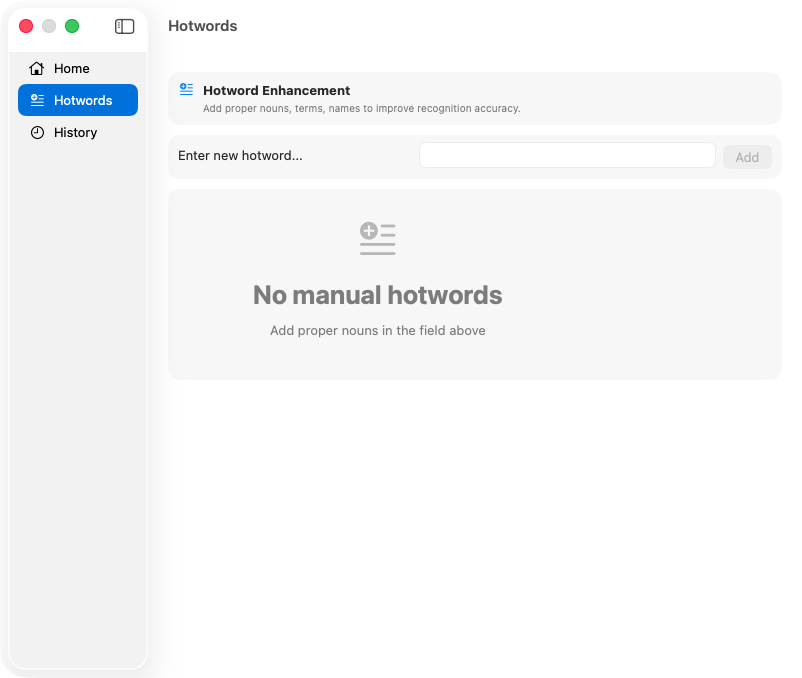
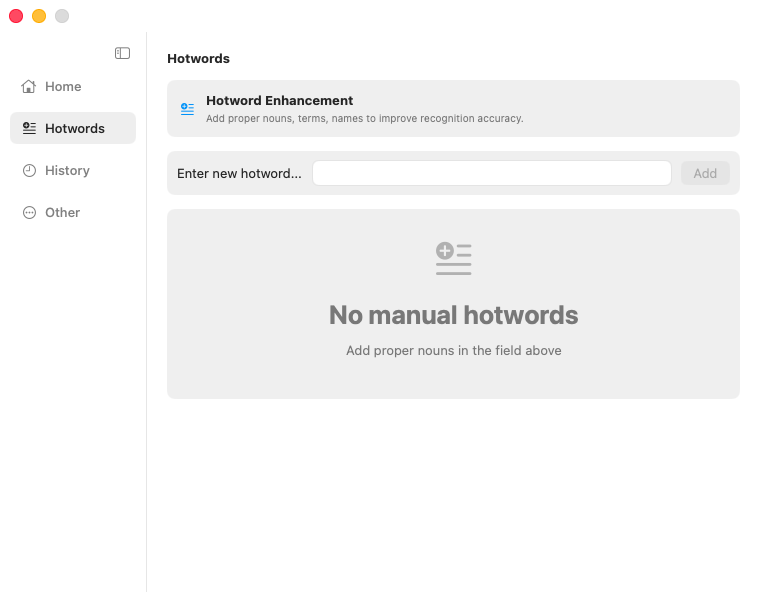
fix
fix

diff --git a/README_ja.md b/README_ja.md
@@ -9,22 +9,22 @@
 
 # VibingSpeech
 
-VibingSpeech は、Apple Silicon Mac 向けのネイティブ macOS 音声入力ユーティリティです。メニューバー常駐アプリとして動作し、グローバルホットキーで録音を開始し、Qwen3-ASR によってローカルで音声をテキストに変換します。オプションでテキストを整形し、システムペーストボードを介して最前面のアプリに結果を貼り付けます。
+VibingSpeech は、Apple Silicon Mac 向けのネイティブ macOS 音声入力ユーティリティです。メニューバー常駐アプリとして動作し、グローバルホットキーで録音を開始し、Qwen3-ASR を使用してローカルで音声を文字起こしし、必要に応じてテキストを整形したうえで、システムのペーストボードを通じて最前面のアプリに結果を貼り付けます。
 
 ## 目次
 
-- [プレビュー](#プレビュー)
-- [機能](#機能)
-- [技術スタック](#技術スタック)
-- [動作環境](#動作環境)
-- [ビルドと実行](#ビルドと実行)
-- [使い方](#使い方)
-- [テスト](#テスト)
-- [アーカイブ](#アーカイブ)
-- [プロジェクト構成](#プロジェクト構成)
-- [権限とプライバシー](#権限とプライバシー)
-- [トラブルシューティング](#トラブルシューティング)
-- [ライセンス](#ライセンス)
+- [プレビュー](#preview)
+- [機能](#features)
+- [技術スタック](#tech-stack)
+- [要件](#requirements)
+- [ビルドと実行](#build-and-run)
+- [使い方](#usage)
+- [テスト](#testing)
+- [アーカイブ](#archive)
+- [プロジェクト構成](#project-structure)
+- [権限とプライバシー](#permissions-and-privacy)
+- [トラブルシューティング](#troubleshooting)
+- [ライセンス](#license)
 
 ## プレビュー
 
@@ -34,38 +34,41 @@ VibingSpeech は、Apple Silicon Mac 向けのネイティブ macOS 音声入力
 
 <img src="githubreadme/ui-history.png" alt="VibingSpeech 履歴画面" width="480">
 
+<img src="githubreadme/ui-other.png" alt="VibingSpeech その他の設定画面" width="480">
+
 ## 機能
 
 - 短押しトグルモードと長押しホールドモードに対応したグローバル録音ホットキー。
-- リアルタイムの音声レベルフィードバックと文字起こし状態を表示するフローティング録音オーバーレイ。
-- Qwen3-ASR 0.6B および 1.7B MLX バリアントに対応したローカル ASR モデル選択。
-- タイポ修正、箇条書き、またはカスタムプロンプトに対応したオプションのローカルテキスト整形プリセット。
-- 名前、専門用語、固有名詞向けのローカルホットワードリスト。
-- 保持期間設定、検索、コピー、削除、全消去アクションを備えたローカル文字起こし履歴。
-- クリップボード復元機能付きで、アクティブなアプリへ安全にテキストを挿入するペーストボード対応機能。
+- リアルタイムの音量フィードバックと文字起こし状態を表示するフローティング録音オーバーレイ。
+- Qwen3-ASR 0.6B、1.7B 4ビット、1.7B 8ビットの MLX バリアントを対象としたローカル ASR モデルの選択。
+- 誤字修正、箇条書き整形、またはカスタムプロンプトに対応したオプションのローカルテキスト処理（LLM）。
+- 氏名、専門用語、固有名詞向けのローカルホットワードリスト。
+- 保持設定、検索、コピー、削除、全消去、元の ASR テキストのコピー操作に対応したローカル文字起こし履歴。
+- アプリ全体の外観モード、ログイン時起動、アイドル時のモデル自動アンロード設定。
+- クリップボードを復元しながら、アクティブなアプリにテキストを安全に挿入するペーストボード対応の挿入機能。
 - Dock アイコンなしのメニューバーライフサイクル。
-- 起動時の Apple Silicon チェック機能。
+- 起動時の Apple Silicon ガード。
 
 ## 技術スタック
 
-- macOS アプリ、メニューバーアイテム、録音オーバーレイに SwiftUI および AppKit を使用。
-- マイク入力と音声変換に AVFoundation を使用。
-- グローバルホットキーおよびペースト操作のシミュレーションに Carbon と Core Graphics イベントタップを使用。
-- Qwen3-ASR と音声サポートに `speech-swift` `0.0.15` を使用。
-- ローカル Qwen3 テキスト処理に `mlx-swift-lm` `3.31.3` と `mlx-swift` `0.31.3` を使用。
-- ローカルの履歴およびホットワード永続化に Application Support 内の JSON ファイルを使用。
+- macOS アプリ、メニューバーアイテム、録音オーバーレイ向けの SwiftUI および AppKit。
+- マイク入力と音声変換向けの AVFoundation。
+- グローバルホットキーと擬似ペースト操作向けの Carbon および Core Graphics イベントタップ。
+- Qwen3-ASR および音声サポート向けの `speech-swift` `0.0.15`。
+- ローカル Qwen3 テキスト処理向けの `mlx-swift` `0.31.3` を含む `mlx-swift-lm` `3.31.3`。
+- ローカルの履歴およびホットワードの永続化向けの Application Support 内 JSON ファイル。
 
-## 動作環境
+## 要件
 
 - Apple Silicon Mac。
 - macOS 26.0 以降。
 - Xcode 26.5 以降。
 - マイクの権限。
-- グローバルホットキーおよびアプリ間ペースト操作のためのアクセシビリティ権限。
+- グローバルホットキーおよびアプリをまたいだ貼り付けのためのアクセシビリティ権限。
 
 ## ビルドと実行
 
-リポジトリルートからプロジェクトスクリプトを使用します：
+リポジトリのルートからプロジェクトスクリプトを使用してください：
 
 ```sh
 ./script/build_and_run.sh --verify
@@ -82,17 +85,19 @@ VibingSpeech は、Apple Silicon Mac 向けのネイティブ macOS 音声入力
 ./script/build_and_run.sh --debug
 ```
 
-Xcode プロジェクトが主要なビルドパスです。このアプリでは SwiftPM のみを使用したリリースビルドは意図的に使用していません。
+Xcode プロジェクトが主要なビルドパスです。このアプリでは SwiftPM のみによるリリースビルドは意図的に使用していません。
 
 ## 使い方
 
 1. VibingSpeech を起動します。
-2. macOS がプロンプトを表示したら、マイクへのアクセスを許可します。
+2. macOS からプロンプトが表示されたら、マイクのアクセスを許可します。
 3. システム設定 > プライバシーとセキュリティ > アクセシビリティ で VibingSpeech を有効にします。
-4. ホーム画面から録音ホットキー、言語モード、ASR モデル、マイク、履歴保持期間を選択します。
-5. 任意のアプリで録音ホットキーを押します。キーを離すか再度押すと停止し、VibingSpeech が文字起こしを行い最終テキストを貼り付けます。
+4. ホーム画面から録音ホットキー、マイク、テキスト処理モード、言語モード、ASR モデルを選択します。
+5. 任意のアプリで録音ホットキーを押します。離すか再度押すと録音が停止し、VibingSpeech が最終テキストを文字起こしして貼り付けます。
 
-デフォルトのホットキーは右 Option キーです。Escape キーでアクティブな録音をキャンセルできます。
+デフォルトのホットキーは右 Option キーです。Escape キーで録音中の操作をキャンセルできます。
+
+ホットワードを使用して氏名やドメイン用語の認識精度を向上させ、履歴を使用して保存された音声入力を検索またはコピーし、その他の設定で外観、ログイン時起動、モデルの自動アンロードタイミングを設定してください。
 
 ## テスト
 
@@ -109,11 +114,11 @@ xcodebuild -project VibingSpeech.xcodeproj \
   test
 ```
 
-現在のテストは、モデルメタデータ、言語正規化、単語数カウント、テキスト整形、短い音声の ASR ガード処理、設定の永続化、履歴保持、破損した履歴の復元、ホットワードの検証、ペーストボードの復元をカバーしています。
+現在のテストは、モデルメタデータ、言語の正規化、単語数カウント、テキストクリーンアップ、短い音声の ASR ガード、設定の永続化、履歴の保持、破損した履歴の復旧、ホットワードの検証、ペーストボードの復元をカバーしています。
 
 ## アーカイブ
 
-アプリが `speech-swift` に依存している間は、Xcode GUI の「アーカイブ」ボタンを使用しないでください。リリースパッケージのビルドで `SpeechVAD` が x86_64 向けにコンパイルされ、`Float16` でエラーが発生する場合があります。
+アプリが `speech-swift` に依存している間は、Xcode GUI のアーカイブボタンを使用しないでください。リリースパッケージのビルドで `SpeechVAD` が x86_64 向けにコンパイルされ、`Float16` でビルドが失敗する可能性があります。
 
 代わりにアーカイブスクリプトを使用してください：
 
@@ -121,12 +126,12 @@ xcodebuild -project VibingSpeech.xcodeproj \
 ./script/archive.sh
 ```
 
-スクリプトは以下を生成します：
+スクリプトは以下を出力します：
 
 - `build/VibingSpeech.xcarchive`
 - `build/VibingSpeech.app`
 
-アーカイブのワークフローでは `ARCHS=arm64` を指定し、Apple Silicon 専用のアプリを生成します。
+アーカイブのワークフローは `ARCHS=arm64` を渡し、Apple Silicon 専用のアプリを生成します。
 
 ## プロジェクト構成
 
@@ -134,13 +139,13 @@ xcodebuild -project VibingSpeech.xcodeproj \
 VibingSpeech/
 ├── VibingSpeech.xcodeproj
 ├── VibingSpeech/
-│   ├── App/              # アプリのエントリポイントとコーディネーター
+│   ├── App/              # アプリのエントリーポイントとコーディネーター
 │   ├── Core/             # 共有アプリの列挙型とヘルパー
 │   ├── Models/           # ドメインモデル
-│   ├── Persistence/      # 設定、履歴、ホットワードストア
+│   ├── Persistence/      # 設定、履歴、ホットワードのストア
 │   ├── Resources/        # Info.plist とアセットカタログ
 │   ├── Services/         # ホットキー、音声、ASR、テキスト挿入、権限
-│   ├── Support/          # フォーマットヘルパー
+│   ├── Support/          # 整形ヘルパー
 │   └── Views/            # SwiftUI ビューとオーバーレイパネル
 ├── VibingSpeechTests/
 ├── VibingSpeechUITests/
@@ -150,18 +155,20 @@ VibingSpeech/
 
 ## 権限とプライバシー
 
-VibingSpeech は録音のためにマイクへのアクセスが必要です。グローバルホットキーおよび最前面のアプリへのテキスト挿入には、アクセシビリティ権限が必要です。
+VibingSpeech は録音のためにマイクへのアクセスが必要です。グローバルホットキーおよび最前面のアプリへのテキスト挿入にはアクセシビリティ権限が必要です。
 
-音声サンプル、ホットワード、設定、および文字起こし履歴はローカルに保存されます。初回使用時に ASR モデルを Hugging Face からダウンロードする際には、ネットワークアクセスが発生します。
+音声はローカルで処理されます。ホットワード、設定、文字起こし履歴はデバイス上に保存されます。ASR またはテキスト処理モデルを初回使用時に Hugging Face からダウンロードする際は、ネットワークアクセスが発生します。
 
 ## トラブルシューティング
 
 ホットキーが機能しない場合は、システム設定 > プライバシーとセキュリティ > アクセシビリティ で VibingSpeech を有効にし、アプリ内の「ホットキー設定を再試行」を使用してください。
 
-録音が開始してすぐに停止する場合、VibingSpeech は ASR に対して短すぎる音声を `speech-swift` に送信せずに破棄します。
+録音が開始してすぐに停止する場合、VibingSpeech は ASR に対して短すぎる音声を `speech-swift` に送信せず破棄します。
 
-Xcode の GUI からアーカイブが失敗する場合は、arm64 専用のパッケージビルド設定が適用されるよう、Terminal から `./script/archive.sh` を使用してください。
+Xcode の GUI からアーカイブが失敗する場合は、ターミナルから `./script/archive.sh` を使用して、arm64 専用のパッケージビルド設定が適用されるようにしてください。
 
 ## ライセンス
 
-VibingSpeech は MIT ライセンスの下で提供されています。[LICENSE](LICENSE) を参照してください。
+VibingSpeech は MIT ライセンスのもとでライセンスされています。[LICENSE](LICENSE) を参照してください。
+
+使用ライブラリやLLMモデルは個々のライセンスを確認してください。

diff --git a/README.md b/README.md
@@ -34,14 +34,17 @@ VibingSpeech is a native macOS dictation utility for Apple Silicon Macs. It runs
 
 <img src="githubreadme/ui-history.png" alt="VibingSpeech history screen" width="480">
 
+<img src="githubreadme/ui-other.png" alt="VibingSpeech other settings screen" width="480">
+
 ## Features
 
 - Global recording hotkey with short-press toggle mode and long-press hold mode.
 - Floating recording overlay with live audio level feedback and transcription state.
-- Local ASR model selection for Qwen3-ASR 0.6B and 1.7B MLX variants.
-- Optional local text cleanup presets for typo correction, bullet points, or a custom prompt.
+- Local ASR model selection for Qwen3-ASR 0.6B, 1.7B 4-bit, and 1.7B 8-bit MLX variants.
+- Optional local Text Processing (LLM) with typo correction, bullet-point formatting, or a custom prompt.
 - Local hotword list for names, terms, and proper nouns.
-- Local transcription history with retention settings, search, copy, delete, and clear actions.
+- Local transcription history with retention settings, search, copy, delete, clear, and original-ASR copy actions.
+- App-wide appearance mode, launch-at-login, and idle model auto-unload controls.
 - Pasteboard-safe text insertion into the active app with clipboard restoration.
 - Menu-bar lifecycle with no Dock icon.
 - Apple Silicon guard at launch.
@@ -89,10 +92,12 @@ The Xcode project is the primary build path. SwiftPM-only release builds are int
 1. Launch VibingSpeech.
 2. Allow microphone access when macOS prompts for it.
 3. Enable VibingSpeech in System Settings > Privacy & Security > Accessibility.
-4. Choose a recording hotkey, language mode, ASR model, microphone, and history retention from the Home screen.
+4. Choose a recording hotkey, microphone, Text Processing mode, language mode, and ASR model from Home.
 5. Press the recording hotkey in any app. Release or press again to stop, then VibingSpeech transcribes and pastes the final text.
 
 The default hotkey is Right Option. Escape cancels an active recording.
+
+Use Hotwords to improve recognition of names and domain terms, History to search or copy saved dictations, and Other to configure appearance, launch-at-login, and model auto-unload timing.
 
 ## Testing
 
@@ -152,7 +157,7 @@ VibingSpeech/
 
 VibingSpeech requires microphone access for recording. Accessibility permission is required for the global hotkey and for inserting text into the frontmost app.
 
-Audio samples, hotwords, settings, and transcription history are stored locally. Network access is expected when the ASR model is downloaded from Hugging Face for first use.
+Audio is processed locally. Hotwords, settings, and transcription history are stored on device. Network access is expected when ASR or Text Processing models are downloaded from Hugging Face for first use.
 
 ## Troubleshooting
 
@@ -165,3 +170,5 @@ If archive fails from Xcode's GUI, use `./script/archive.sh` from Terminal so th
 ## License
 
 VibingSpeech is licensed under the MIT License. See [LICENSE](LICENSE).
+
+Please check the individual licenses for the libraries and LLM models used.
